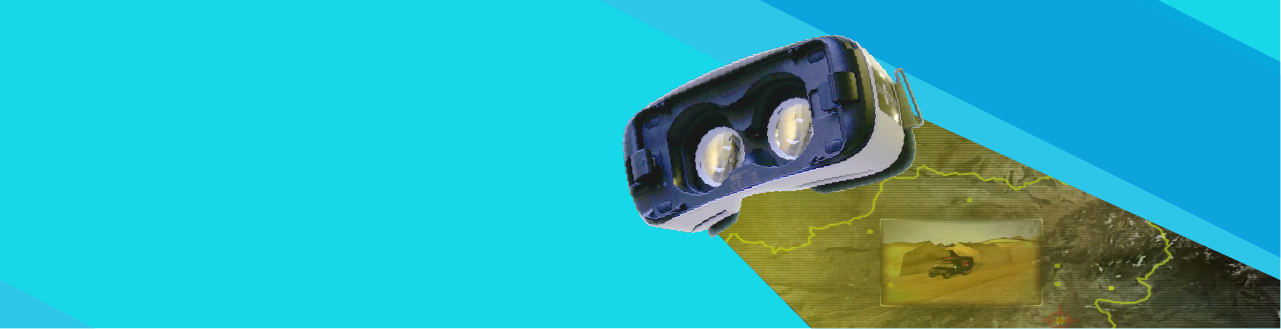
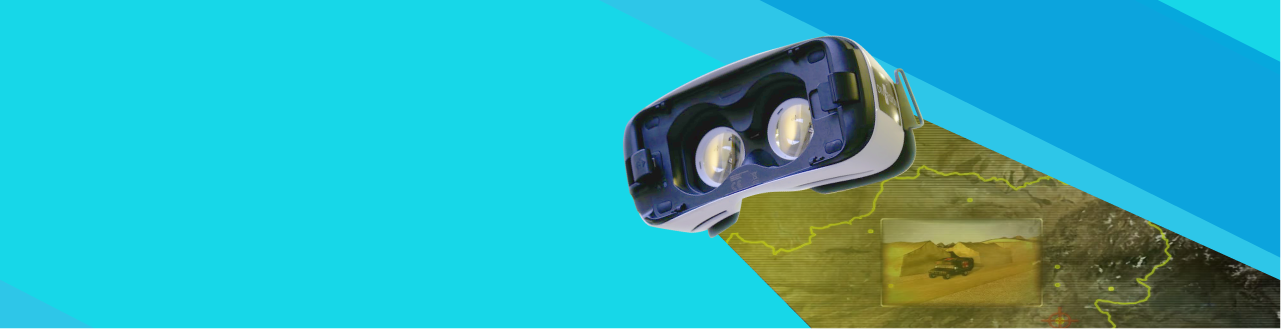
Modified css and images

diff --git a/augmented_reality.html b/augmented_reality.html
@@ -37,8 +37,8 @@
 								<a href="#" class="orange">Industries</a>
 								<ul class="sub-menu-list">
 									<li class="sub-menu-list-item"><a href="healthcare.html">Healthcare</a></li>
-									<li class="sub-menu-list-item"><a href="BFSI.html">Banking, Financial Services and Insurance</a></li>
-									<li class="sub-menu-list-item"><a href="IT.html">IT and business consulting</a></li>
+									<li class="sub-menu-list-item"><a href="bfsi.html">Banking, Financial Services and Insurance</a></li>
+									<li class="sub-menu-list-item"><a href="it.html">IT and business consulting</a></li>
 									<li class="sub-menu-list-item"><a href="manufacturing.html">Manufacturing</a></li>
 									<li class="sub-menu-list-item"><a href="retail.html">Retail</a></li>
 									<li class="sub-menu-list-item"><a href="branding_games.html">Branding Games</a></li>										
@@ -55,10 +55,10 @@
 							</li>
 						</ul>							
 					</li>
-					<li class="menu-item"><a href="#">Virtual Reality-Based Training</a></li>
-					<li class="menu-item"><a href="#">Augmented Reality-Based Training</a></li>
-					<li class="menu-item"><a href="#">Success Stories</a></li>
-					<li class="menu-item"><a href="#">Blog</a></li>
+					<li class="menu-item"><a href="virtual_reality.html">Virtual Reality-Based Training</a></li>
+					<li class="menu-item"><a href="augmented_reality.html">Augmented Reality-Based Training</a></li>
+					<li class="menu-item"><a href="success_stories.html">Success Stories</a></li>
+					<li class="menu-item"><a href="blog.html">Blog</a></li>
 				</ul>
 	  		</nav>
 		</div>
@@ -109,7 +109,7 @@
 					</div>
 					<div class="box">
 						<div class="box-item">
-							<h3 class="box-title">Regulary and <br> Real-time
+							<h3 class="box-title">Regular and <br> Real-time
 								<br><span class="purple">Feedback</span>
 							</h3>
 						</div>

diff --git a/virtual_reality.html b/virtual_reality.html
@@ -15,7 +15,7 @@
 	<!--==========================
 	  Header
 	============================-->
-	<header>
+<header>
 		<input type="checkbox" id="nav-check" name="nav-check">
 		<div class="logo">
 			<a href="index.html"><img src="img/logo.png" alt="logo"></a>
@@ -37,8 +37,8 @@
 								<a href="#" class="orange">Industries</a>
 								<ul class="sub-menu-list">
 									<li class="sub-menu-list-item"><a href="healthcare.html">Healthcare</a></li>
-									<li class="sub-menu-list-item"><a href="BFSI.html">Banking, Financial Services and Insurance</a></li>
-									<li class="sub-menu-list-item"><a href="IT.html">IT and business consulting</a></li>
+									<li class="sub-menu-list-item"><a href="bfsi.html">Banking, Financial Services and Insurance</a></li>
+									<li class="sub-menu-list-item"><a href="it.html">IT and business consulting</a></li>
 									<li class="sub-menu-list-item"><a href="manufacturing.html">Manufacturing</a></li>
 									<li class="sub-menu-list-item"><a href="retail.html">Retail</a></li>
 									<li class="sub-menu-list-item"><a href="branding_games.html">Branding Games</a></li>										
@@ -55,10 +55,10 @@
 							</li>
 						</ul>							
 					</li>
-					<li class="menu-item"><a href="#">Virtual Reality-Based Training</a></li>
-					<li class="menu-item"><a href="#">Augmented Reality-Based Training</a></li>
-					<li class="menu-item"><a href="#">Success Stories</a></li>
-					<li class="menu-item"><a href="#">Blog</a></li>
+					<li class="menu-item"><a href="virtual_reality.html">Virtual Reality-Based Training</a></li>
+					<li class="menu-item"><a href="augmented_reality.html">Augmented Reality-Based Training</a></li>
+					<li class="menu-item"><a href="success_stories.html">Success Stories</a></li>
+					<li class="menu-item"><a href="blog.html">Blog</a></li>
 				</ul>
 	  		</nav>
 		</div>

diff --git a/computer_training.html b/computer_training.html
@@ -37,8 +37,8 @@
 								<a href="#" class="orange">Industries</a>
 								<ul class="sub-menu-list">
 									<li class="sub-menu-list-item"><a href="healthcare.html">Healthcare</a></li>
-									<li class="sub-menu-list-item"><a href="BFSI.html">Banking, Financial Services and Insurance</a></li>
-									<li class="sub-menu-list-item"><a href="IT.html">IT and business consulting</a></li>
+									<li class="sub-menu-list-item"><a href="bfsi.html">Banking, Financial Services and Insurance</a></li>
+									<li class="sub-menu-list-item"><a href="it.html">IT and business consulting</a></li>
 									<li class="sub-menu-list-item"><a href="manufacturing.html">Manufacturing</a></li>
 									<li class="sub-menu-list-item"><a href="retail.html">Retail</a></li>
 									<li class="sub-menu-list-item"><a href="branding_games.html">Branding Games</a></li>										
@@ -55,10 +55,10 @@
 							</li>
 						</ul>							
 					</li>
-					<li class="menu-item"><a href="#">Virtual Reality-Based Training</a></li>
-					<li class="menu-item"><a href="#">Augmented Reality-Based Training</a></li>
-					<li class="menu-item"><a href="#">Success Stories</a></li>
-					<li class="menu-item"><a href="#">Blog</a></li>
+					<li class="menu-item"><a href="virtual_reality.html">Virtual Reality-Based Training</a></li>
+					<li class="menu-item"><a href="augmented_reality.html">Augmented Reality-Based Training</a></li>
+					<li class="menu-item"><a href="success_stories.html">Success Stories</a></li>
+					<li class="menu-item"><a href="blog.html">Blog</a></li>
 				</ul>
 	  		</nav>
 		</div>

diff --git a/contact.html b/contact.html
@@ -37,8 +37,8 @@
 								<a href="#" class="orange">Industries</a>
 								<ul class="sub-menu-list">
 									<li class="sub-menu-list-item"><a href="healthcare.html">Healthcare</a></li>
-									<li class="sub-menu-list-item"><a href="BFSI.html">Banking, Financial Services and Insurance</a></li>
-									<li class="sub-menu-list-item"><a href="IT.html">IT and business consulting</a></li>
+									<li class="sub-menu-list-item"><a href="bfsi.html">Banking, Financial Services and Insurance</a></li>
+									<li class="sub-menu-list-item"><a href="it.html">IT and business consulting</a></li>
 									<li class="sub-menu-list-item"><a href="manufacturing.html">Manufacturing</a></li>
 									<li class="sub-menu-list-item"><a href="retail.html">Retail</a></li>
 									<li class="sub-menu-list-item"><a href="branding_games.html">Branding Games</a></li>										
@@ -55,10 +55,10 @@
 							</li>
 						</ul>							
 					</li>
-					<li class="menu-item"><a href="#">Virtual Reality-Based Training</a></li>
-					<li class="menu-item"><a href="#">Augmented Reality-Based Training</a></li>
-					<li class="menu-item"><a href="#">Success Stories</a></li>
-					<li class="menu-item"><a href="#">Blog</a></li>
+					<li class="menu-item"><a href="virtual_reality.html">Virtual Reality-Based Training</a></li>
+					<li class="menu-item"><a href="augmented_reality.html">Augmented Reality-Based Training</a></li>
+					<li class="menu-item"><a href="success_stories.html">Success Stories</a></li>
+					<li class="menu-item"><a href="blog.html">Blog</a></li>
 				</ul>
 	  		</nav>
 		</div>

diff --git a/mobile_training.html b/mobile_training.html
@@ -37,8 +37,8 @@
 								<a href="#" class="orange">Industries</a>
 								<ul class="sub-menu-list">
 									<li class="sub-menu-list-item"><a href="healthcare.html">Healthcare</a></li>
-									<li class="sub-menu-list-item"><a href="BFSI.html">Banking, Financial Services and Insurance</a></li>
-									<li class="sub-menu-list-item"><a href="IT.html">IT and business consulting</a></li>
+									<li class="sub-menu-list-item"><a href="bfsi.html">Banking, Financial Services and Insurance</a></li>
+									<li class="sub-menu-list-item"><a href="it.html">IT and business consulting</a></li>
 									<li class="sub-menu-list-item"><a href="manufacturing.html">Manufacturing</a></li>
 									<li class="sub-menu-list-item"><a href="retail.html">Retail</a></li>
 									<li class="sub-menu-list-item"><a href="branding_games.html">Branding Games</a></li>										
@@ -55,10 +55,10 @@
 							</li>
 						</ul>							
 					</li>
-					<li class="menu-item"><a href="#">Virtual Reality-Based Training</a></li>
-					<li class="menu-item"><a href="#">Augmented Reality-Based Training</a></li>
-					<li class="menu-item"><a href="#">Success Stories</a></li>
-					<li class="menu-item"><a href="#">Blog</a></li>
+					<li class="menu-item"><a href="virtual_reality.html">Virtual Reality-Based Training</a></li>
+					<li class="menu-item"><a href="augmented_reality.html">Augmented Reality-Based Training</a></li>
+					<li class="menu-item"><a href="success_stories.html">Success Stories</a></li>
+					<li class="menu-item"><a href="blog.html">Blog</a></li>
 				</ul>
 	  		</nav>
 		</div>

diff --git a/js/script.js b/js/script.js
@@ -8,9 +8,9 @@ $(document).ready(function(){
 	});
 
 	function parallaxed(e) {
-	      var amountMovedX = (e.clientX * -0.1/8);
-	      var amountMovedY = (e.clientY * -0.2/6);
-	      var x = document.getElementsByClassName("parallaxed");
+	      var amountMovedX = (e.clientX * -0.1/6);
+	      var amountMovedY = (e.clientY * -0.3/8);
+	      var x = document.getElementsByClassName("parallax-layer-one");
 	      console.log(x);
 	      var i;
 	      for (i = 0; i < x.length; i++) {
